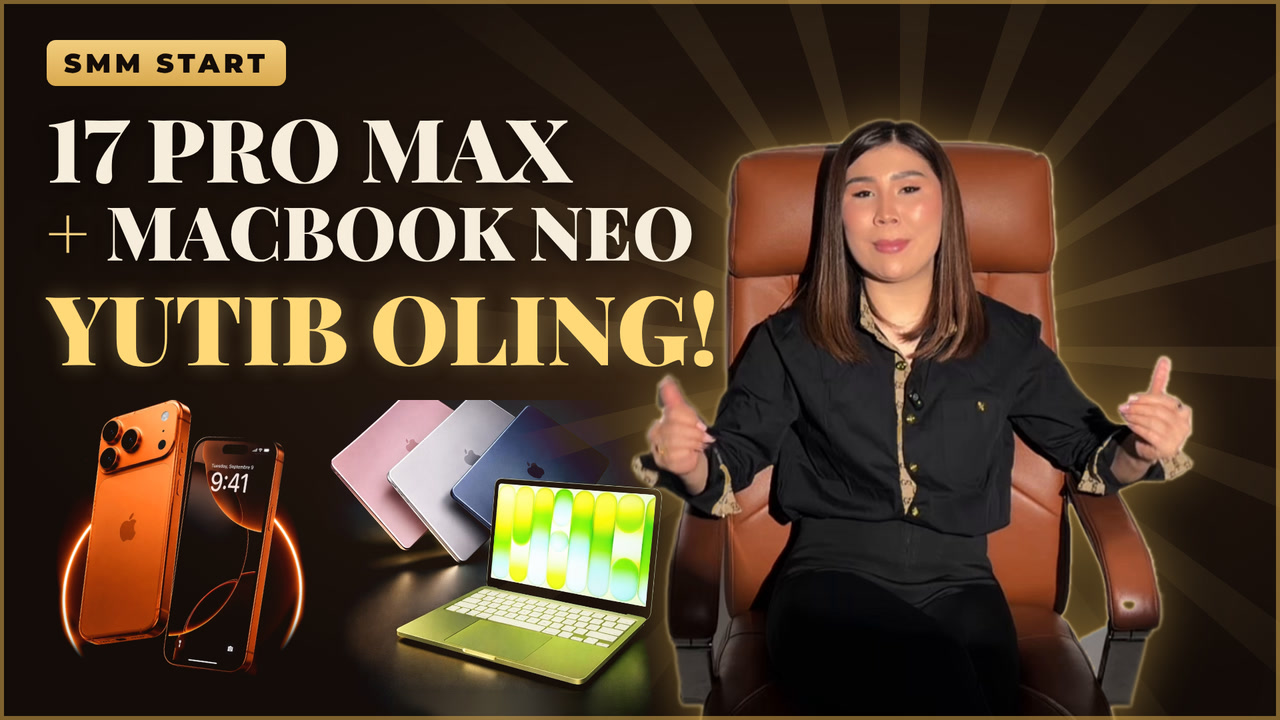
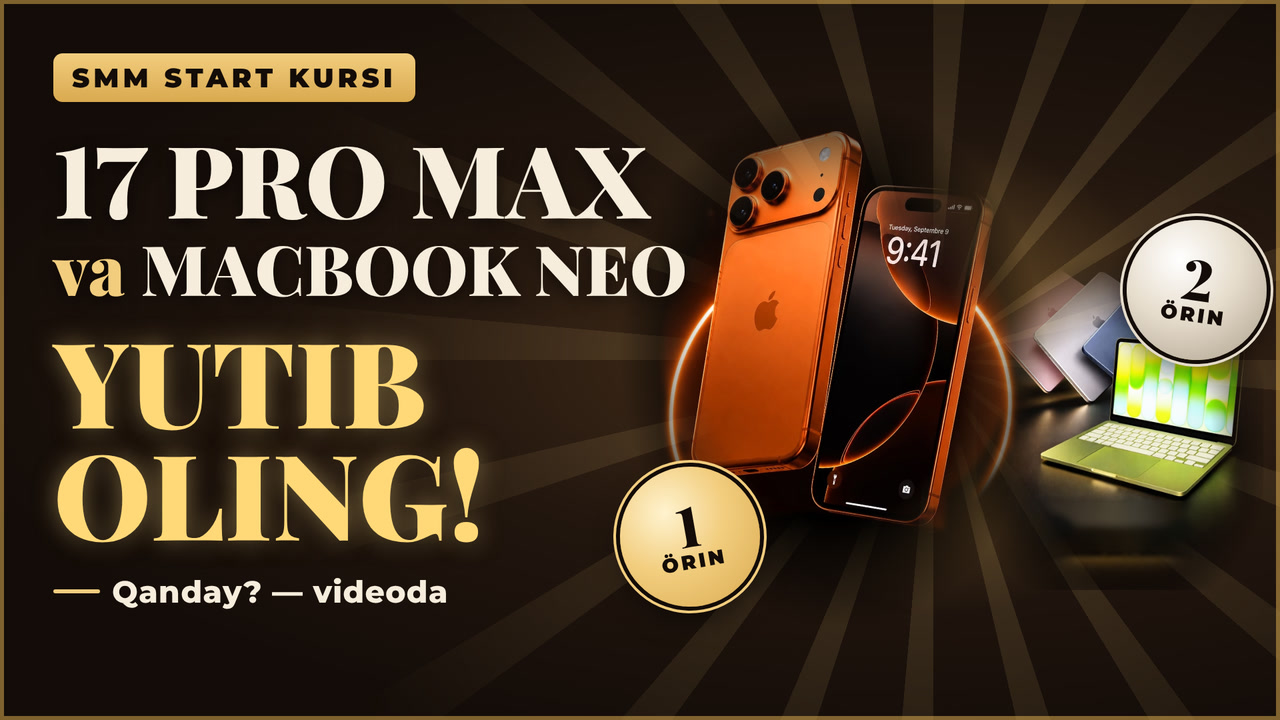
SmmStart thumbnail: devices + headline only (no speaker), 1st/2nd place stickers
Claude-Session: https://claude.ai/code/session_01811cARaKyMG81277ZHP9KG

diff --git a/video/src/v12/Thumbnail.tsx b/video/src/v12/Thumbnail.tsx
@@ -3,35 +3,47 @@ import { AbsoluteFill, Img, staticFile } from "remotion";
 import { BEBAS, CREAM, GOLD, GOLD2, INTER, N, NAVY } from "./ui";
 
 // YouTube thumbnail for the SmmStart video (1920×1080 → exported 1280×720).
-// Same look as the edit: espresso background, gold glow, Playfair + Montserrat.
+// Devices + headline only (no speaker), same look as the edit.
 const F = (p: string) => staticFile(`v12/${p}`);
 const head = (size: number, color: string = CREAM): React.CSSProperties => ({
   fontFamily: BEBAS, fontWeight: 900, fontSize: size, lineHeight: 0.98, color, whiteSpace: "nowrap",
   fontVariantNumeric: "lining-nums", textShadow: "0 6px 24px rgba(0,0,0,0.6)",
 });
+const Sticker: React.FC<{ text: string; sub: string; x: number; y: number; gold?: boolean; rot?: number }> = ({ text, sub, x, y, gold = true, rot = 0 }) => (
+  <div style={{ position: "absolute", left: x, top: y, width: 210, height: 210, borderRadius: "50%", transform: `rotate(${rot}deg)`,
+    background: gold ? `radial-gradient(circle at 35% 30%, #fff3cf, ${GOLD} 45%, ${GOLD2})` : "radial-gradient(circle at 35% 30%, #ffffff, #e6dccb 45%, #a99d8a)",
+    boxShadow: `0 0 0 6px ${NAVY}, 0 0 0 10px ${gold ? GOLD : "#e6dccb"}, 0 20px 40px rgba(0,0,0,0.55)`,
+    display: "flex", flexDirection: "column", alignItems: "center", justifyContent: "center", color: NAVY }}>
+    <div style={{ fontFamily: BEBAS, fontWeight: 900, fontSize: 84, lineHeight: 0.9, fontVariantNumeric: "lining-nums" }}>{text}</div>
+    <div style={{ fontFamily: INTER, fontWeight: 900, fontSize: 30, letterSpacing: 4 }}>{N(sub)}</div>
+  </div>
+);
 
 export const SmmThumb: React.FC = () => (
-  <AbsoluteFill style={{ background: `radial-gradient(ellipse at 62% 45%, #4a321c 0%, #22160e 38%, ${NAVY} 75%)`, overflow: "hidden" }}>
-    {/* light rays */}
-    <div style={{ position: "absolute", left: 1350 - 1100, top: 520 - 1100, width: 2200, height: 2200, opacity: 0.16, background: `repeating-conic-gradient(from 0deg, ${GOLD} 0deg 5deg, transparent 5deg 18deg)`, maskImage: "radial-gradient(circle, black 0%, transparent 60%)", WebkitMaskImage: "radial-gradient(circle, black 0%, transparent 60%)" }} />
-    {/* gold glow behind the speaker */}
-    <div style={{ position: "absolute", left: 1000, top: 80, width: 900, height: 900, borderRadius: "50%", background: `radial-gradient(closest-side, ${GOLD2}66, transparent 75%)` }} />
+  <AbsoluteFill style={{ background: `radial-gradient(ellipse at 70% 50%, #4a321c 0%, #22160e 40%, ${NAVY} 78%)`, overflow: "hidden" }}>
+    {/* light rays + glow behind the prizes */}
+    <div style={{ position: "absolute", left: 1400 - 1200, top: 540 - 1200, width: 2400, height: 2400, opacity: 0.2, background: `repeating-conic-gradient(from 0deg, ${GOLD} 0deg 5deg, transparent 5deg 18deg)`, maskImage: "radial-gradient(circle, black 0%, transparent 60%)", WebkitMaskImage: "radial-gradient(circle, black 0%, transparent 60%)" }} />
+    <div style={{ position: "absolute", left: 950, top: 90, width: 950, height: 950, borderRadius: "50%", background: `radial-gradient(closest-side, ${GOLD2}55, transparent 75%)` }} />
 
-    {/* speaker (cut out), right side */}
-    <Img src={F("speaker_cut.png")} style={{ position: "absolute", right: -60, bottom: -40, height: 1080, filter: `drop-shadow(0 0 2px ${GOLD}) drop-shadow(0 0 40px ${GOLD2}88) drop-shadow(0 30px 60px rgba(0,0,0,0.6))` }} />
-
-    {/* devices, bottom-left (black photo backgrounds dropped with "lighten") */}
-    <Img src={F("iphone.jpg")} style={{ position: "absolute", left: 40, top: 560, height: 560, mixBlendMode: "lighten", transform: "rotate(-6deg)" }} />
-    <div style={{ position: "absolute", left: 470, top: 600, width: 560, height: 520, overflow: "hidden", mixBlendMode: "lighten" }}>
-      <Img src={F("macbook.jpg")} style={{ position: "absolute", left: 0, top: -230, width: 560 }} />
+    {/* prizes (black photo backgrounds dropped with "lighten") */}
+    <div style={{ position: "absolute", left: 1450, top: 380, width: 460, height: 560, overflow: "hidden", maskImage: "radial-gradient(ellipse 50% 50% at 50% 50%, black 60%, transparent 100%)", WebkitMaskImage: "radial-gradient(ellipse 50% 50% at 50% 50%, black 60%, transparent 100%)" }}>
+      <Img src={F("macbook.jpg")} style={{ position: "absolute", left: 15, top: -140, width: 430 }} />
     </div>
+    <Img src={F("iphone.jpg")} style={{ position: "absolute", left: 930, top: 140, height: 800, transform: "rotate(-4deg)", maskImage: "radial-gradient(ellipse 50% 50% at 50% 50%, black 60%, transparent 100%)", WebkitMaskImage: "radial-gradient(ellipse 50% 50% at 50% 50%, black 60%, transparent 100%)" }} />
+    <Sticker text="1" sub="O‘RIN" x={930} y={700} rot={-10} />
+    <Sticker text="2" sub="O‘RIN" x={1690} y={330} gold={false} rot={8} />
 
     {/* headline */}
-    <div style={{ position: "absolute", left: 70, top: 60 }}>
-      <div style={{ display: "inline-block", padding: "10px 26px", borderRadius: 14, background: `linear-gradient(180deg, ${GOLD}, ${GOLD2})`, color: NAVY, fontFamily: INTER, fontWeight: 900, fontSize: 40, letterSpacing: 6 }}>SMM START</div>
-      <div style={{ ...head(132), marginTop: 26 }}>17 PRO MAX</div>
-      <div style={{ ...head(112), marginTop: 6 }}><span style={{ color: GOLD }}>+</span> MACBOOK NEO</div>
-      <div style={{ ...head(144, "#FFD978"), marginTop: 18, textShadow: "0 0 30px rgba(242,205,126,0.45), 0 6px 20px rgba(0,0,0,0.7)" }}>{N("YUTIB OLING!")}</div>
+    <div style={{ position: "absolute", left: 80, top: 80 }}>
+      <div style={{ display: "inline-block", padding: "12px 28px", borderRadius: 14, background: `linear-gradient(180deg, ${GOLD}, ${GOLD2})`, color: NAVY, fontFamily: INTER, fontWeight: 900, fontSize: 40, letterSpacing: 6 }}>{N("SMM START KURSI")}</div>
+      <div style={{ ...head(150), marginTop: 40 }}>17 PRO MAX</div>
+      <div style={{ ...head(104), marginTop: 10 }}><span style={{ color: GOLD }}>va</span> MACBOOK NEO</div>
+      <div style={{ ...head(178, "#FFD978"), marginTop: 30, textShadow: "0 0 36px rgba(242,205,126,0.5), 0 8px 24px rgba(0,0,0,0.7)" }}>{N("YUTIB")}</div>
+      <div style={{ ...head(178, "#FFD978"), marginTop: -6, textShadow: "0 0 36px rgba(242,205,126,0.5), 0 8px 24px rgba(0,0,0,0.7)" }}>{N("OLING!")}</div>
+      <div style={{ display: "flex", alignItems: "center", gap: 18, marginTop: 34 }}>
+        <div style={{ width: 70, height: 6, borderRadius: 3, background: GOLD }} />
+        <div style={{ fontFamily: INTER, fontWeight: 800, fontSize: 46, color: CREAM, letterSpacing: 1 }}>{N("Qanday? — videoda")}</div>
+      </div>
     </div>
     {/* thin gold frame */}
     <AbsoluteFill style={{ border: `6px solid ${GOLD2}`, opacity: 0.55 }} />
